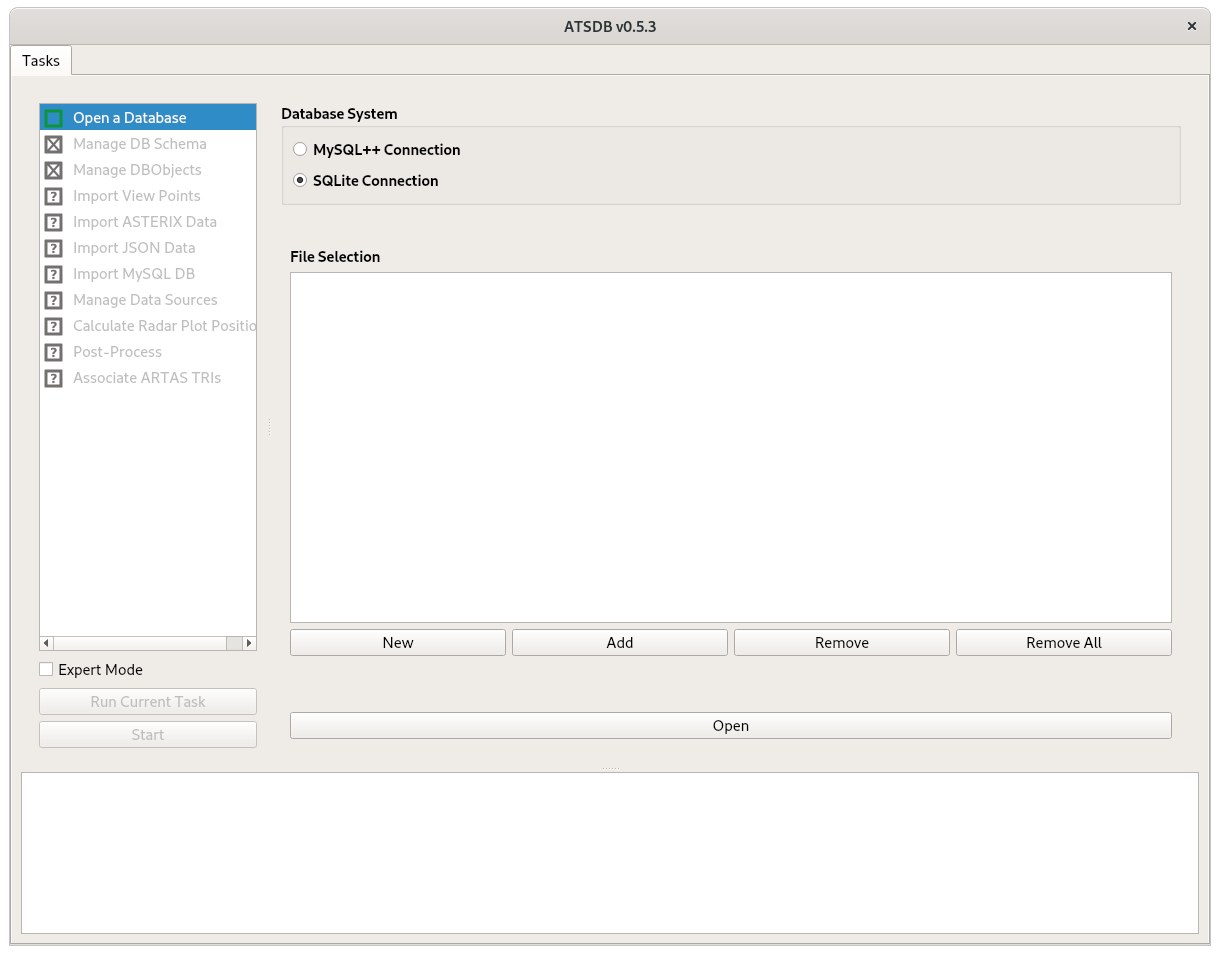
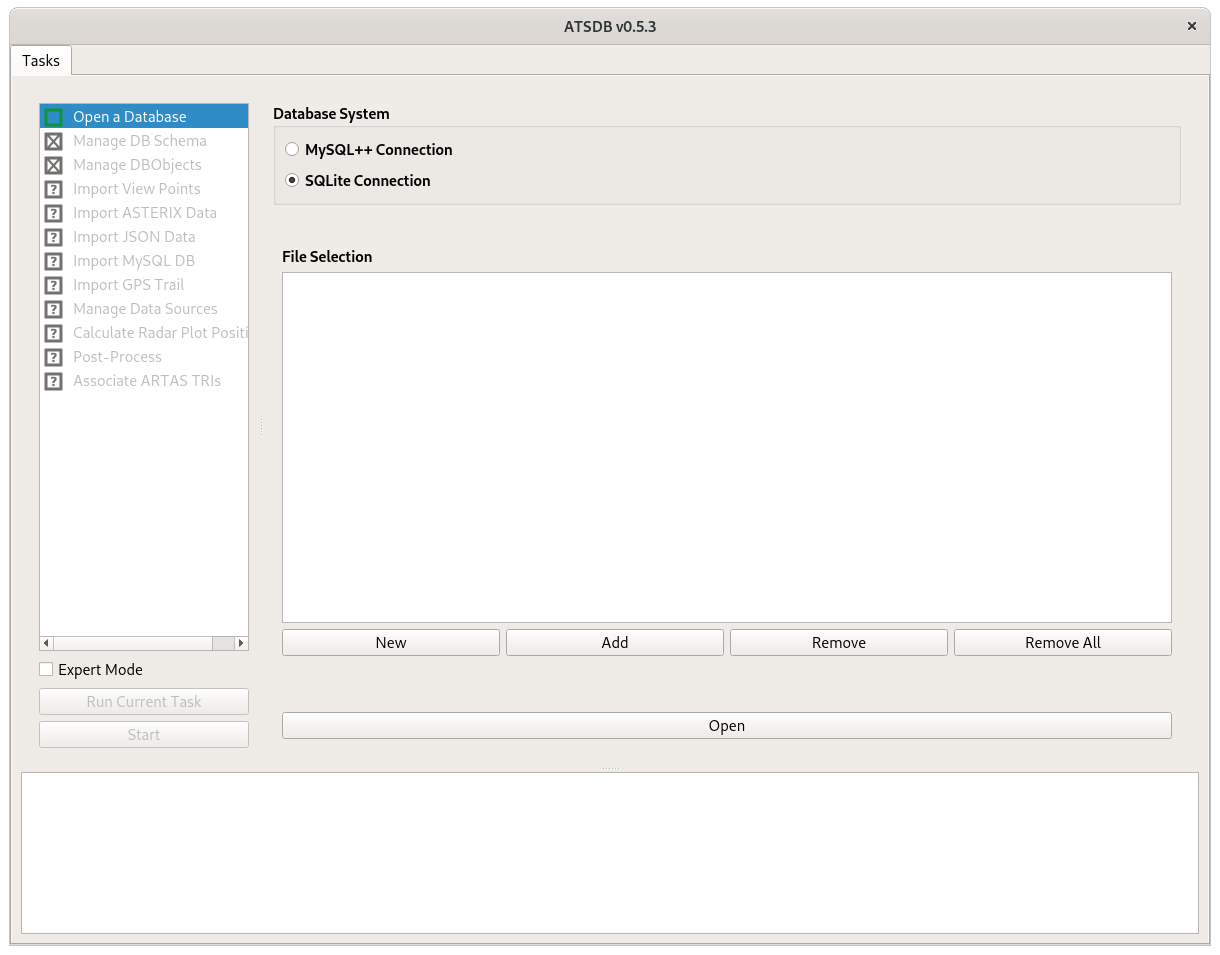
doc updates

diff --git a/doc/user_manual/task_use_cases.tex b/doc/user_manual/task_use_cases.tex
@@ -58,6 +58,7 @@ After such steps, data can be imported if wanted (not recommended for Verif data
 
 \begin{itemize}
  \item \nameref{sec:task_import_view_points}
+ \item \nameref{sec:task_import_gps}*
  \item \nameref{sec:task_manage_datasources}*
  \item \nameref{sec:task_calc_radar_pos}* (If Radar data was imported)
  \item \nameref{sec:task_postprocess}
@@ -68,6 +69,7 @@ After such steps, data can be imported if wanted (not recommended for Verif data
 
 \begin{itemize}
  \item \nameref{sec:task_import_asterix}
+ \item \nameref{sec:task_import_gps}*
  \item \nameref{sec:task_manage_datasources}*
  \item \nameref{sec:task_calc_radar_pos}* (If Radar data was imported)
  \item \nameref{sec:task_postprocess}
@@ -78,6 +80,7 @@ After such steps, data can be imported if wanted (not recommended for Verif data
 
 \begin{itemize}
  \item \nameref{sec:task_import_json}
+ \item \nameref{sec:task_import_gps}*
  \item \nameref{sec:task_manage_datasources}*
  \item \nameref{sec:task_calc_radar_pos}* (If Radar data was imported)
  \item \nameref{sec:task_postprocess}

diff --git a/doc/user_manual/intro_feature_highlights.tex b/doc/user_manual/intro_feature_highlights.tex
@@ -9,6 +9,7 @@ The following features exist: \\
 \item Support of multiple, configurable database schemas, e.g. SCDB
 \item Dynamic JSON import from SDDL, ADS-B exchange, OpenSky Network
 \item Dynamic ASTERIX import using jASTERIX decoder
+\item Import of DGPS trails from NMEA files
 \item MySQL database import and management of SCDB databases
 \item High performance processing, low memory footprint
 \item Utilization of application during loading procedure
@@ -23,6 +24,7 @@ The following features exist: \\
 \item System Tracks and Reference Trajectories
 \item MLAT \& WAM target reports
 \item ADS-B target reports
+\item Reference trajectory points
 \end{itemize}
 \item Command line options for automated processing
 \item View points for semi-automated inspection

diff --git a/doc/user_manual/task.tex b/doc/user_manual/task.tex
@@ -65,6 +65,7 @@ The following tasks exist:
  \item Import ASTERIX Data
  \item Import JSON Data
  \item Import MySQL DB
+ \item Import GPS Trail
  \item Manage Data Sources
  \item Calculate Radar Plot Positions
  \item Post-Process
@@ -108,6 +109,7 @@ Depending on the use-case, some tasks are required, e.g. the Post-Process task. 
 \subfile{task_import_asterix}
 \subfile{task_import_json}
 \subfile{task_import_mysql}
+\subfile{task_import_gps}
 
 \subfile{task_manage_datasources}
 

diff --git a/doc/user_manual/intro_acknowledgements.tex b/doc/user_manual/intro_acknowledgements.tex
@@ -17,6 +17,7 @@ The following libraries are used in the project (list not exhaustive):
 \item nlohmann::json
 \item Intel Thread Building Blocks
 \item Catch2
+\item NemaTode
 \end{itemize}
 \ \\
 

diff --git a/readme.md b/readme.md
@@ -5,6 +5,7 @@ Based on a dynamic database schema, recorded air traffic surveillance data can b
 - Support of multiple, configurable database schemas, e.g. SCDB
 - Dynamic JSON import from SDDL, ADS-B exchange, OpenSky Network
 - Dynamic ASTERIX import using [jASTERIX](https://github.com/hpuhr/jASTERIX)
+- Import of DGPS trails from NMEA files
 - MySQL database import and management of SCDB databases
 - High performance processing, low memory footprint
 - Filtering for detailed analysis
@@ -15,6 +16,7 @@ Based on a dynamic database schema, recorded air traffic surveillance data can b
   - System Tracks and Reference Trajectories
   - MLAT & WAM target reports
   - ADS-B target reports
+  - Reference trajectory points
 - Textual data inspection using Listbox View
   - Display of data as text tables
   - Configurable data loading of data of interest
